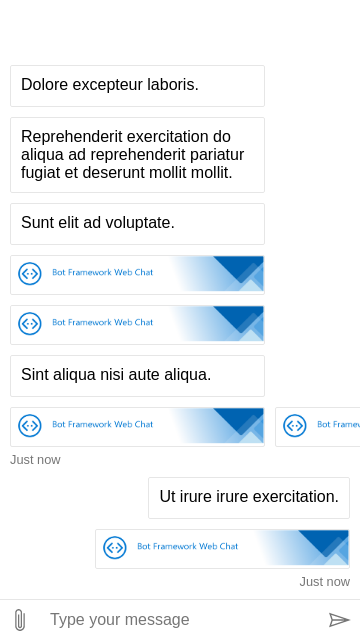
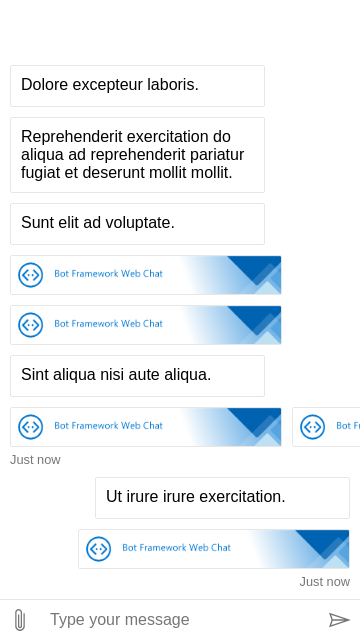
Separate attachment and message min/max width

diff --git a/packages/component/src/Styles/StyleSet/StackedLayout.ts b/packages/component/src/Styles/StyleSet/StackedLayout.ts
@@ -4,7 +4,10 @@ import { StrictStyleOptions } from 'botframework-webchat-api';
 import CSSTokens from '../CSSTokens';
 
 export default function createStackedLayoutStyle({
-  bubbleMaxWidth,
+  bubbleAttachmentMaxWidth,
+  bubbleAttachmentMinWidth,
+  bubbleMessageMaxWidth,
+  bubbleMessageMinWidth,
   paddingRegular,
   transitionDuration
 }: StrictStyleOptions) {
@@ -30,8 +33,8 @@ export default function createStackedLayoutStyle({
       },
 
       '& .webchat__stacked-layout__attachment': {
-        maxWidth: CSSTokens.MaxWidthBubble,
-        minWidth: CSSTokens.MinWidthBubble,
+        maxWidth: CSSTokens.MaxWidthAttachmentBubble,
+        minWidth: CSSTokens.MinWidthAttachmentBubble,
         transitionDuration,
         transitionProperty: 'max-width, min-width'
       },
@@ -47,15 +50,11 @@ export default function createStackedLayoutStyle({
         },
 
       '& .webchat__stacked-layout__message': {
-        maxWidth: CSSTokens.MaxWidthBubble,
+        maxWidth: CSSTokens.MaxWidthMessageBubble,
+        minWidth: CSSTokens.MinWidthMessageBubble,
         overflow: 'hidden',
         transitionDuration,
         transitionProperty: 'max-width'
-      },
-
-      // Bubble min width do not applies to user message, could be a design bug.
-      '&:not(.webchat__stacked-layout--from-user) .webchat__stacked-layout__message': {
-        minWidth: CSSTokens.MinWidthBubble
       },
 
       '& .webchat__stacked-layout__nub-pad': {
@@ -72,8 +71,14 @@ export default function createStackedLayoutStyle({
 
       '&.webchat__stacked-layout--hide-avatar, &.webchat__stacked-layout--show-avatar, &.webchat__stacked-layout--hide-nub, &.webchat__stacked-layout--show-nub':
         {
-          '& .webchat__stacked-layout__attachment, & .webchat__stacked-layout__message': {
-            maxWidth: bubbleMaxWidth + paddingRegular
+          '& .webchat__stacked-layout__attachment': {
+            maxWidth: bubbleAttachmentMaxWidth + paddingRegular,
+            minWidth: bubbleAttachmentMinWidth + paddingRegular
+          },
+
+          '& .webchat__stacked-layout__message': {
+            maxWidth: bubbleMessageMaxWidth + paddingRegular,
+            minWidth: bubbleMessageMinWidth + paddingRegular
           },
 
           '& .webchat__stacked-layout__nub-pad': {

diff --git a/packages/api/src/normalizeStyleOptions.ts b/packages/api/src/normalizeStyleOptions.ts
@@ -7,6 +7,14 @@ const bubbleImageHeightDeprecation = warnOnce(
   '"styleOptions.bubbleImageHeight" has been deprecated. Use "styleOptions.bubbleImageMaxHeight" and "styleOptions.bubbleImageMinHeight" instead. This deprecation migration will be removed on or after 2026-07-05.'
 );
 
+const bubbleMaxWidthDeprecation = warnOnce(
+  '"styleOptions.bubbleMaxWidth" has been deprecated. Use "styleOptions.bubbleAttachmentMaxWidth" and "styleOptions.bubbleMessageMaxWidth" instead. This deprecation migration will be removed on or after 2026-07-05.'
+);
+
+const bubbleMinWidthDeprecation = warnOnce(
+  '"styleOptions.bubbleMinWidth" has been deprecated. Use "styleOptions.bubbleAttachmentMinWidth" and "styleOptions.bubbleMessageMinWidth" instead. This deprecation migration will be removed on or after 2026-07-05.'
+);
+
 const hideScrollToEndButtonDeprecation = warnOnce(
   '"styleOptions.hideScrollToEndButton" has been deprecated. To hide scroll to end button, set "scrollToEndBehavior" to false. This deprecation migration will be removed on or after 2023-06-02.'
 );
@@ -188,6 +196,30 @@ export default function normalizeStyleOptions({
     filledOptions.bubbleImageMinHeight = options.bubbleImageHeight;
 
     filledOptions.bubbleImageHeight = undefined;
+  }
+
+  if (typeof options.bubbleAttachmentMaxWidth === 'undefined' && options.bubbleMaxWidth) {
+    bubbleMaxWidthDeprecation();
+    filledOptions.bubbleAttachmentMaxWidth = options.bubbleMaxWidth;
+    filledOptions.bubbleMaxWidth = undefined;
+  }
+
+  if (typeof options.bubbleAttachmentMinWidth === 'undefined' && options.bubbleMinWidth) {
+    bubbleMinWidthDeprecation();
+    filledOptions.bubbleAttachmentMinWidth = options.bubbleMinWidth;
+    filledOptions.bubbleMinWidth = undefined;
+  }
+
+  if (typeof options.bubbleMessageMaxWidth === 'undefined' && options.bubbleMaxWidth) {
+    bubbleMaxWidthDeprecation();
+    filledOptions.bubbleMessageMaxWidth = options.bubbleMaxWidth;
+    filledOptions.bubbleMaxWidth = undefined;
+  }
+
+  if (typeof options.bubbleMessageMinWidth === 'undefined' && options.bubbleMinWidth) {
+    bubbleMinWidthDeprecation();
+    filledOptions.bubbleMessageMinWidth = options.bubbleMinWidth;
+    filledOptions.bubbleMinWidth = undefined;
   }
 
   return {

diff --git a/packages/component/src/Styles/useCustomPropertiesClassName.ts b/packages/component/src/Styles/useCustomPropertiesClassName.ts
@@ -21,10 +21,12 @@ export default function useCustomPropertiesClassName() {
       borderAnimationColor1,
       borderAnimationColor2,
       borderAnimationColor3,
+      bubbleAttachmentMaxWidth,
+      bubbleAttachmentMinWidth,
       bubbleImageMaxHeight,
       bubbleImageMinHeight,
-      bubbleMaxWidth,
-      bubbleMinWidth,
+      bubbleMessageMaxWidth,
+      bubbleMessageMinWidth,
       bubbleMinHeight,
       fontSizeSmall,
       markdownExternalLinkIconImage,
@@ -50,8 +52,10 @@ export default function useCustomPropertiesClassName() {
   ${CustomPropertyNames.FontSizeSmall}: ${fontSizeSmall};
   ${CustomPropertyNames.IconURLExternalLink}: ${markdownExternalLinkIconImage};
   ${CustomPropertyNames.MaxHeightImageBubble}: ${bubbleImageMaxHeight}px;
-  ${CustomPropertyNames.MaxWidthBubble}: ${bubbleMaxWidth}px;
-  ${CustomPropertyNames.MinWidthBubble}: ${bubbleMinWidth}px;
+  ${CustomPropertyNames.MaxWidthAttachmentBubble}: ${bubbleAttachmentMaxWidth}px;
+  ${CustomPropertyNames.MinWidthAttachmentBubble}: ${bubbleAttachmentMinWidth}px;
+  ${CustomPropertyNames.MaxWidthMessageBubble}: ${bubbleMessageMaxWidth}px;
+  ${CustomPropertyNames.MinWidthMessageBubble}: ${bubbleMessageMinWidth}px;
   ${CustomPropertyNames.MinHeightBubble}: ${bubbleMinHeight}px;
   ${CustomPropertyNames.MinHeightImageBubble}: ${bubbleImageMinHeight}px;
   ${CustomPropertyNames.PaddingRegular}: ${paddingRegular}px;

diff --git a/packages/api/src/StyleOptions.ts b/packages/api/src/StyleOptions.ts
@@ -176,9 +176,17 @@ type StyleOptions = {
    */
   bubbleImageMinHeight?: number | undefined;
 
-  bubbleMaxWidth?: number;
+  /* @deprecated Please use `bubbleAttachmentMaxWidth` and `bubbleMessageMaxWidth` instead. */
+  bubbleMaxWidth?: number | undefined;
+  /* @deprecated Please use `bubbleAttachmentMaxWidth` and `bubbleMessageMaxWidth` instead. */
+  bubbleMinWidth?: number | undefined;
+
+  bubbleAttachmentMaxWidth?: number | undefined;
+  bubbleAttachmentMinWidth?: number | undefined;
+  bubbleMessageMaxWidth?: number | undefined;
+  bubbleMessageMinWidth?: number | undefined;
+
   bubbleMinHeight?: number;
-  bubbleMinWidth?: number;
 
   /**
    * Nub offset ''bottom' will render nub at the bottom
@@ -915,7 +923,10 @@ type StyleOptions = {
 // 2. Renamed/deprecated options, only the newer option will be kept, the older option will be dropped.
 //    Internally, no code should use the deprecated value except the migration code.
 type StrictStyleOptions = Required<
-  Omit<StyleOptions, 'bubbleImageHeight' | 'hideScrollToEndButton' | 'newMessagesButtonFontSize'>
+  Omit<
+    StyleOptions,
+    'bubbleImageHeight' | 'bubbleMaxWidth' | 'bubbleMinWidth' | 'hideScrollToEndButton' | 'newMessagesButtonFontSize'
+  >
 > & {
   bubbleFromUserNubOffset: number;
   bubbleNubOffset: number;

diff --git a/packages/component/src/Styles/createStyleSet.ts b/packages/component/src/Styles/createStyleSet.ts
@@ -31,7 +31,6 @@ import createSendBoxStyle from './StyleSet/SendBox';
 import createSendBoxButtonStyle from './StyleSet/SendBoxButton';
 import createSendBoxTextBoxStyle from './StyleSet/SendBoxTextBox';
 import createSendStatusStyle from './StyleSet/SendStatus';
-import createSingleAttachmentActivityStyle from './StyleSet/SingleAttachmentActivity';
 import createSlottedActivityStatusStyle from './StyleSet/SlottedActivityStatus';
 import createSpinnerAnimationStyle from './StyleSet/SpinnerAnimation';
 import createStackedLayoutStyle from './StyleSet/StackedLayout';
@@ -85,7 +84,6 @@ export default function createStyleSet(styleOptions: StyleOptions) {
     sendBox: createSendBoxStyle(strictStyleOptions),
     sendBoxButton: createSendBoxButtonStyle(strictStyleOptions),
     sendBoxTextBox: createSendBoxTextBoxStyle(strictStyleOptions),
-    singleAttachmentActivity: createSingleAttachmentActivityStyle(strictStyleOptions),
     spinnerAnimation: createSpinnerAnimationStyle(strictStyleOptions),
     stackedLayout: createStackedLayoutStyle(strictStyleOptions),
     suggestedAction: createSuggestedActionStyle(strictStyleOptions),

diff --git a/packages/api/src/defaultStyleOptions.ts b/packages/api/src/defaultStyleOptions.ts
@@ -56,9 +56,13 @@ const DEFAULT_OPTIONS: Required<StyleOptions> = {
   bubbleImageHeight: undefined,
   bubbleImageMaxHeight: 240, // Based on previously default `bubbleImageHeight` of 240px.
   bubbleImageMinHeight: 240, // TODO: Should change to 180px. Based on 320px bubble width showing a 16:9 image, or `320 / (16 / 9)`. 320px bubble width is based on 360px wide of the chat canvas.
-  bubbleMaxWidth: 480, // Based off screen width = 600px
+  bubbleMaxWidth: undefined, // Deprecated.
+  bubbleMinWidth: undefined, // Deprecated.
+  bubbleAttachmentMaxWidth: 480, // Based off screen width = 600px
+  bubbleAttachmentMinWidth: 250, // min screen width = 300px; Microsoft Edge requires 372px (https://developer.microsoft.com/en-us/microsoft-edge/platform/issues/13621468/)
+  bubbleMessageMaxWidth: 480, // Based off screen width = 600px
+  bubbleMessageMinWidth: 0,
   bubbleMinHeight: 40,
-  bubbleMinWidth: 250, // min screen width = 300px; Microsoft Edge requires 372px (https://developer.microsoft.com/en-us/microsoft-edge/platform/issues/13621468/)
   bubbleNubOffset: 0,
   bubbleNubSize: undefined,
   bubbleTextColor: 'Black',

diff --git a/packages/component/src/Styles/StyleSet/CarouselFilmStrip.ts b/packages/component/src/Styles/StyleSet/CarouselFilmStrip.ts
@@ -6,7 +6,7 @@ import mirrorStyle from '../mirrorStyle';
 
 export default function CarouselFilmStrip({
   avatarSize,
-  bubbleMaxWidth,
+  bubbleMessageMaxWidth,
   paddingRegular,
   transitionDuration
 }: StrictStyleOptions) {
@@ -23,8 +23,8 @@ export default function CarouselFilmStrip({
       },
 
       '& .webchat__carousel-filmstrip__message': {
-        maxWidth: CSSTokens.MaxWidthBubble,
-        minWidth: CSSTokens.MinWidthBubble,
+        maxWidth: CSSTokens.MaxWidthMessageBubble,
+        minWidth: CSSTokens.MinWidthMessageBubble,
         transitionDuration,
         transitionProperty: 'max-width'
       },
@@ -32,7 +32,7 @@ export default function CarouselFilmStrip({
       '&.webchat__carousel-filmstrip--hide-nub, &.webchat__carousel-filmstrip--show-nub, &.webchat__carousel-filmstrip--hide-avatar, &.webchat__carousel-filmstrip--show-avatar':
         {
           '& .webchat__carousel-filmstrip__message': {
-            maxWidth: bubbleMaxWidth + paddingRegular
+            maxWidth: bubbleMessageMaxWidth + paddingRegular
           }
         },
 

diff --git a/packages/component/src/Styles/CustomPropertyNames.ts b/packages/component/src/Styles/CustomPropertyNames.ts
@@ -10,8 +10,10 @@ const CustomPropertyNames = Object.freeze({
   FontSizeSmall: '--webchat__font-size--small',
   IconURLExternalLink: '--webchat__icon-url--external-link',
   MaxHeightImageBubble: '--webchat__max-height--image-bubble',
-  MaxWidthBubble: '--webchat__max-width--bubble',
-  MinWidthBubble: '--webchat__min-width--bubble',
+  MaxWidthAttachmentBubble: '--webchat__max-width--attachment-bubble',
+  MinWidthAttachmentBubble: '--webchat__min-width--attachment-bubble',
+  MaxWidthMessageBubble: '--webchat__max-width--message-bubble',
+  MinWidthMessageBubble: '--webchat__min-width--message-bubble',
   MinHeightBubble: '--webchat__min-height--bubble',
   MinHeightImageBubble: '--webchat__min-height--image-bubble',
   PaddingRegular: '--webchat__padding--regular',

diff --git a/__tests__/html2/bubble/fixedWidth.html b/__tests__/html2/bubble/fixedWidth.html
@@ -10,8 +10,11 @@
     <script crossorigin="anonymous" src="/__dist__/webchat-es5.js"></script>
     <style type="text/css">
       .my-webchat {
-        --webchat__max-width--bubble: 75%;
-        --webchat__min-width--bubble: 75%;
+        --webchat__max-width--attachment-bubble: 80%;
+        --webchat__min-width--attachment-bubble: 80%;
+
+        --webchat__max-width--message-bubble: 75%;
+        --webchat__min-width--message-bubble: 75%;
 
         --webchat__max-height--image-bubble: initial;
         --webchat__min-height--image-bubble: initial;

diff --git a/packages/component/src/Styles/StyleSet/CarouselFilmStripAttachment.ts b/packages/component/src/Styles/StyleSet/CarouselFilmStripAttachment.ts
@@ -14,8 +14,8 @@ export default function CarouselFilmStripAttachment({
 }: StrictStyleOptions) {
   return {
     '&.webchat__carousel-filmstrip-attachment': {
-      maxWidth: CSSTokens.MaxWidthBubble,
-      minWidth: CSSTokens.MinWidthBubble,
+      maxWidth: CSSTokens.MaxWidthAttachmentBubble,
+      minWidth: CSSTokens.MinWidthAttachmentBubble,
       transitionDuration,
       transitionProperty: 'max-width, min-width',
 

diff --git a/packages/component/src/Styles/StyleSet/TextContent.ts b/packages/component/src/Styles/StyleSet/TextContent.ts
@@ -15,8 +15,8 @@ export default function createTextContentStyle() {
       },
 
       '& .webchat__text-content__markdown img:not(.webchat__render-markdown__external-link-icon)': {
-        maxWidth: CSSTokens.MaxWidthBubble,
-        minWidth: CSSTokens.MinWidthBubble,
+        maxWidth: CSSTokens.MaxWidthMessageBubble,
+        minWidth: CSSTokens.MinWidthMessageBubble,
         width: '100%'
       },
 
